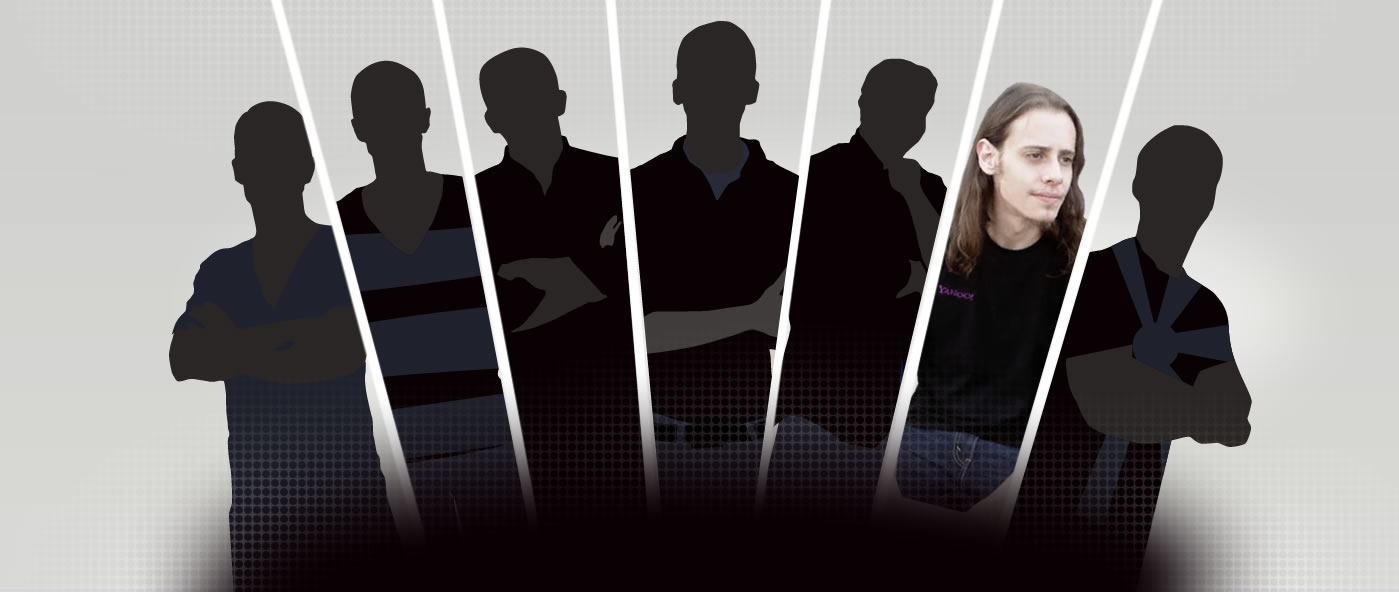
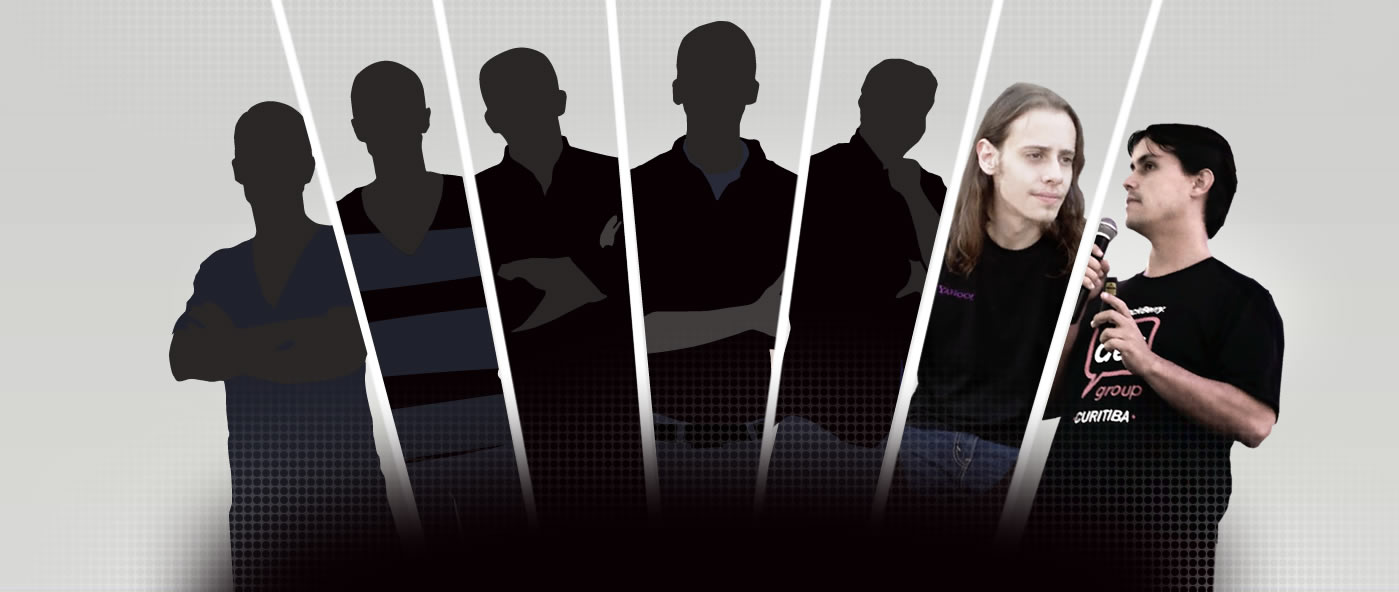
Adding Demian Borba to the website

Changed region(s): [[0.7069, 0.1824, 0.9221, 1.0], [0.6147, 0.7905, 0.6455, 0.8209]]

diff --git a/index.html b/index.html
@@ -127,15 +127,17 @@
                                 </a>
 							</li>
 							<li>
-								<div class="hero LV">
-									<div class="info">
-										<strong class="hero-name">???</strong>
-										<em class="hero-company">???</em>										
-									</div>
-								</div>
+                                <a class="hero demian-borba" href="http://braziljs.com.br/speakers/demian" title="Saiba mais sobre o palestrante Demian Borba" data-layer='3'>
+                                    <span class="spikes">&nbsp;</span>
+                                    <div class="info">
+                                        <strong class="hero-name" itemprop="performer">Demian Borba</strong>
+                                        <em class="hero-company">BlackBerry</em>                                     
+                                    </div>
+                                    <span class="photo">&nbsp;</span>
+                                </a>
 							</li>
 							<li>
-								<a class="hero thibault-imbert" href="http://braziljs.com.br/speakers/thibault" title="Saiba mais sobre o palestrante Thibault Imbert" data-layer='3'>
+								<a class="hero thibault-imbert" href="http://braziljs.com.br/speakers/thibault" title="Saiba mais sobre o palestrante Thibault Imbert" data-layer='4'>
 									<span class="spikes">&nbsp;</span>
 									<div class="info">
 										<strong class="hero-name" itemprop="performer">Thibault Imbert</strong>
@@ -145,7 +147,7 @@
 								</a>
 							</li>
 							<li>
-								<a class="hero robert-nyman" href="http://braziljs.com.br/speakers/robert" title="Saiba mais sobre o palestrante Robert Nyman" data-layer='4'>
+								<a class="hero robert-nyman" href="http://braziljs.com.br/speakers/robert" title="Saiba mais sobre o palestrante Robert Nyman" data-layer='5'>
 									<span class="spikes">&nbsp;</span>
 									<div class="info">
 										<strong class="hero-name" itemprop="performer">Robert Nyman</strong>
@@ -163,7 +165,7 @@
 								</div>
 							</li>
 							<li>
-								<a class="hero marcel-angus" href="http://braziljs.com.br/speakers/angus-marcel" title="Saiba mais sobre os palestrantes Marcel Duran e Angus Croll" data-layer='5'>
+								<a class="hero marcel-angus" href="http://braziljs.com.br/speakers/angus-marcel" title="Saiba mais sobre os palestrantes Marcel Duran e Angus Croll" data-layer='6'>
 									<span class="spikes">&nbsp;</span>
 									<div class="info">
 										<strong class="hero-name" itemprop="performers">angus croll &amp;&amp; marcel duran</strong>
@@ -189,7 +191,7 @@
 								</div>
 							</li>
 							<li>
-								<a class="hero stoyan-stefanov" href="http://braziljs.com.br/speakers/stoyan" title="Saiba mais sobre o palestrante Stoyan Stefanov" data-layer='6'>
+								<a class="hero stoyan-stefanov" href="http://braziljs.com.br/speakers/stoyan" title="Saiba mais sobre o palestrante Stoyan Stefanov" data-layer='7'>
 									<span class="spikes">&nbsp;</span>
 									<div class="info">
 										<strong class="hero-name" itemprop="performer">Stoyan Stefanov</strong>
@@ -199,7 +201,7 @@
 								</a>
 							</li>
 							<li>
-								<a class="hero caridy-patino" href="http://braziljs.com.br/speakers/caridy" title="Saiba mais sobre o palestrante Caridy Patino" data-layer='7'>
+								<a class="hero caridy-patino" href="http://braziljs.com.br/speakers/caridy" title="Saiba mais sobre o palestrante Caridy Patino" data-layer='8'>
 									<span class="spikes">&nbsp;</span>
 									<div class="info">
 										<strong class="hero-name" itemprop="performer">Caridy Patino</strong>
@@ -225,7 +227,7 @@
 								</div>
 							</li>
 							<li>
-								<a class="hero renato-mangini" href="http://braziljs.com.br/speakers/renato" title="Saiba mais sobre o palestrante Renato Mangini" data-layer='8'>
+								<a class="hero renato-mangini" href="http://braziljs.com.br/speakers/renato" title="Saiba mais sobre o palestrante Renato Mangini" data-layer='9'>
 									<span class="spikes">&nbsp;</span>
 									<div class="info">
 										<strong class="hero-name" itemprop="performer">Renato Mangini</strong>
@@ -298,7 +300,39 @@
                                         </li>
                                     </ul>
                                 </div>
-                            </li>							
+                            </li>
+                            <li id="demian" itemscope itemtype="http://schema.org/Person">
+                                <div class="portrait">
+                                    <span class="photo">&nbsp;</span>
+                                    <ul class="share">
+                                        <li><div class="fb-like" data-href="http://braziljs.com.br/speakers/demian.html" data-send="false" data-layout="box_count" data-width="72" data-show-faces="false"></div></li>
+                                        <li><a href="https://twitter.com/share" class="twitter-share-button" data-url="http://braziljs.com.br/speakers/demian.html" data-via="braziljs" data-lang="en" data-count="vertical">Tweet</a></li>
+                                        <li><div class="g-plusone" data-size="tall" data-href="http://braziljs.com.br/speakers/demian.html"></div></li>
+                                    </ul>
+                                </div>
+                                <div class="speaker">
+                                    <div class="info">
+                                        <h3 class="name" itemprop="name">Demian Borba</h3>
+                                        <em class="company" itemprop="worksFor">BlackBerry</em>
+                                        <div class="information" itemprop="description">
+                                            <span class="spacer">&nbsp;</span>
+                                            <p>Surfista, <span itemprop="jobtitle">professor</span>da Universidade da California San Diego (UCSD) e <span itemprop="jobtitle">Developer Evangelist</span> na BlackBerry, com foco em HTML5 e UI Design.</p>
+                                            <p>Em 2012, recebeu o prêmio "Must See BlackBerry Developer Evangelist", competição global entre todos os evangelistas da BlackBerry, e venceu uma das maiores competições para developers nos Estados Unidos, o AT&T® Mobile App Hackathon em Las Vegas</p>
+                                        </div>
+                                    </div>
+                                    <ul class="social-networks">
+                                        <li>
+                                            <a class="github ir ico-general" href="https://github.com/demianborba" title="Acesse o gitHub de Demian">linkedin</a>
+                                        </li>
+                                        <li class="twitter">
+                                            <a class="twitter ir ico-general" href="https://twitter.com/demianborba" title="Acesse o Twitter de Demian">Twitter</a>
+                                        </li>                                        
+                                        <li class="blog">
+                                            <a class="blog ir ico-general" itemprop="url" href="http://dborba.com/" title="Acesse o blog de Demian Borba">dborba.com</a>
+                                        </li>
+                                    </ul>
+                                </div>
+                            </li>                            							
 							<li id="thibault" itemscope itemtype="http://schema.org/Person">
 								<div class="portrait">
 									<span class="photo">&nbsp;</span>

diff --git a/speakers/demian.html b/speakers/demian.html
@@ -1,0 +1,120 @@
+<!DOCTYPE html>
+<!--[if lt ie 7]>      <html class="lt-ie9 lt-ie8 lt-ie7" lang="pt-BR"> <![endif]-->
+<!--[if ie 7]>         <html class="lt-ie9 lt-ie8" lang="pt-BR"> <![endif]-->
+<!--[if ie 8]>         <html class="lt-ie9" lang="pt-BR"> <![endif]-->
+<!--[if gt ie 8]><!--> <html lang="pt-BR" itemscope itemtype="http://schema.org/Person"> <!--<![endif]-->
+    <head>
+        <meta charset="utf-8" />
+        <meta http-equiv="X-UA-Compatible" content="IE=edge,chrome=1" />
+        <title>Demian Borba - BrazilJS 2013</title>
+        <meta name="description" content="BrazilJS Conf 2013 - Demian Borba" />
+        <meta name="author" content="marimbondo.me - Web com gominho :)" />
+        <link rel="apple-touch-icon" href="apple-touch-icon.png" />
+        <link rel="icon" href="../facebook.png" type="image/x-icon">        
+	    <meta name="viewport" content="width=device-width, initial-scale=1.0"/>
+	    <link rel="dns-prefetch" href="//apis.google.com/">
+	    <link rel="dns-prefetch" href="//www.google-analytics.com">
+	    <link rel="dns-prefetch" href="//connect.facebook.net/">
+	    <link rel="dns-prefetch" href="//cdn.api.twitter.com">        
+        
+        <link rel="stylesheet" href="../css/normalize.css" />
+        <link rel="stylesheet" href="../css/main.css" />
+        <link rel="stylesheet" href="css/context.css" />
+        <link type="text/plain" rel="author" href="humans.txt" />
+        <link rel="canonical" href="http://braziljs.com.br/speakers/demian.html" />
+
+        <!--[if lt IE 9]>
+                <script src="//html5shim.googlecode.com/svn/trunk/html5.js"></script>
+        <![endif]-->
+
+        <!-- OPEN GRAPH -->
+        <meta property="og:url" content="http://braziljs.com.br/speakers/demian.html" />
+        <meta property="og:type" content="Website" /> 
+        <meta property="og:title" content="Demian Borba - BrazilJS 2013" /> 
+        <meta property="og:image" content="http://braziljs.com.br/facebook.png" /> 
+        <meta property="og:description" content="Eu vou assistir a palestra de Demian Borba na BrazilJS Conf - 2013!" />
+		<meta property="fb:admins" content="1114477480" /> 
+		<meta property="fb:app_id" content="136223956547034" /> 
+		<meta property="og:site_name" content="BrazilJS Conference" />
+
+    </head>
+    <body class="demian">
+    	<div class="wrapper">    		
+			<div id="speakers">
+				<div class="speakers-wrapper">
+					<span class="burst">&nbsp;</span>
+					<span class="speaker ir">Olá meu nome é Demian Borba</span>
+					<div class="ballons">
+						<span class="calling what">vem ver minha palestra...</span>
+						<span class="calling where">... na <b>brazilJs conf!!</b></span>
+					</div>
+					<strong class="logo ir">BrazilJS Conf</strong>
+				</div>
+				<span class="cities">&nbsp;</span>
+			</div>
+			<div class="speaker-info">
+				<div class="info-container">
+					<h1 class="name" itemprop="name">Demian Borba</h1>
+					<strong class="company" itemprop="worksFor">BlackBerry</strong>					
+				</div>
+				<div id="social-networks">
+					<strong class="like-it ir ico-general">Curtiu? Compartilha!</strong>
+					<ul>
+						<li><div class="fb-like" data-href="http://braziljs.com.br/speakers/demian.html" data-send="false" data-layout="box_count" data-width="72" data-show-faces="false"></div></li>
+						<li><a href="https://twitter.com/share" class="twitter-share-button" data-url="http://braziljs.com.br/demian" data-via="braziljs" data-lang="en" data-count="vertical">Tweet</a></li>
+						<li><div class="g-plusone" data-size="tall"></div></li>
+					</ul>
+				</div>
+				<div class="description" itemprop="description">
+					<p>Surfista, <span itemprop="jobtitle">professor</span>da Universidade da California San Diego (UCSD) e <span itemprop="jobtitle">Developer Evangelist</span> na BlackBerry, com foco em HTML5 e UI Design.</p>
+					<p>Demian viaja o mundo conversando com developers sobre desenvolvimento, design, inovação e mercado. Antes de entrar para a BlackBerry, Demian comandou a agência interativa Action Creations na California, com clientes com Nike, 20th Century Fox, Oakley etc.</p> 
+					<p>Em 2012, recebeu o prêmio "Must See BlackBerry Developer Evangelist", competição global entre todos os evangelistas da BlackBerry, e venceu uma das maiores competições para developers nos Estados Unidos, o AT&T® Mobile App Hackathon em Las Vegas</p>
+				</div>
+				<h2 class="find-me">Nas redes sociais:</h2>
+				<ul class="my-social-links">
+					<li>
+						<a class="github" href="https://github.com/demianborba" title="Acesse o gitHub de Demian Borba">github</a>
+					</li>
+					<li>
+						<a class="twitter" href="https://twitter.com/demianborba" title="Acesse o Twitter de Demian">Twitter</a>
+					</li>
+					<li>
+						<a class="blog" href="http://dborba.com/" title="Acesse o blog de Demian Borba" itemprop="url">dborba.com</a>
+					</li>															
+				</ul>
+				<a href="//www.braziljs.com.br" title="Home" class="home-container">
+					<strong class="home ir">volte para a home</strong>
+					<span class="inner-shadow">&nbsp;</span>	
+				</a>
+			</div>
+			<footer class="footer-container">
+				<span class="cities">&nbsp;</span>
+				<span class="gradient">&nbsp;</span>
+				<div class="debug">
+					<span class="coins">&nbsp;</span>
+				</div>
+			</footer>
+	    </div>        
+		<script>(function(d, s, id) {
+		  var js, fjs = d.getElementsByTagName(s)[0];
+		  if (d.getElementById(id)) return;
+		  js = d.createElement(s); js.id = id;
+		  js.src = "//connect.facebook.net/pt_BR/all.js#xfbml=1&appId=136223956547034";
+		  fjs.parentNode.insertBefore(js, fjs);
+		}(document, 'script', 'facebook-jssdk'));</script>
+		<script>!function(d,s,id){var js,fjs=d.getElementsByTagName(s)[0];if(!d.getElementById(id)){js=d.createElement(s);js.id=id;js.src="https://platform.twitter.com/widgets.js";fjs.parentNode.insertBefore(js,fjs);}}(document,"script","twitter-wjs");</script>
+		<script type="text/javascript">
+		  (function() {
+		    var po = document.createElement('script'); po.type = 'text/javascript'; po.async = true;
+		    po.src = 'https://apis.google.com/js/plusone.js';
+		    var s = document.getElementsByTagName('script')[0]; s.parentNode.insertBefore(po, s);
+		  })();
+		</script>
+        <script>
+            var _gaq=[['_setAccount','UA-32119524-1'],['_trackPageview']];
+            (function(d,t){var g=d.createElement(t),s=d.getElementsByTagName(t)[0];
+            g.src=('https:'==location.protocol?'//ssl':'//www')+'.google-analytics.com/ga.js';
+            s.parentNode.insertBefore(g,s)}(document,'script'));
+        </script>
+    </body>
+</html>

diff --git a/css/main.css b/css/main.css
@@ -204,7 +204,9 @@ main .where { float:left; width:432px; font-size:28px; font-weight:bold; letter-
 #heroes .heroes-list .alexandre-gaigalas .spikes { height:533px; width:300px; background:url('../img/wide-spikes.png') no-repeat; }
 #heroes .heroes-list .alexandre-gaigalas .photo { top:3px; left:61px; width:239px; height:530px; background:url('../img/hero-alexandre.png') no-repeat; }
 #heroes .heroes-list .AB .specialguest.photo { right:0; bottom:0; width:300px; height:533px; background:url('../img/hero-betao.png') no-repeat; }
-#heroes .heroes-list .LV { margin:-316px 20px 0 0; width:300px; height:317px; background:url('../img/hero-lv.jpg') no-repeat; }
+#heroes .heroes-list .demian-borba { margin:-316px 20px 0 0; width:300px; height:317px; }
+#heroes .heroes-list .demian-borba .spikes { height:318px; width:300px; }
+#heroes .heroes-list .demian-borba .photo { bottom:0; right:0; height:309px; width:236px; background:url('../img/hero-damian.png') no-repeat; }
 #heroes .heroes-list .thibault-imbert { margin-top:-316px; width:300px; height:317px; }
 #heroes .heroes-list .thibault-imbert .spikes { width:300px; background:url('../img/spikes-thibault.png') no-repeat; }
 #heroes .heroes-list .thibault-imbert .hero-name { font-size:30px; }
@@ -281,6 +283,8 @@ main .where { float:left; width:432px; font-size:28px; font-weight:bold; letter-
 #heroes-overlay #angus-marcel .photo { left:-61px; top:100px; width:432px; height:321px; background:url('../img/overlay-angus-marcel.png') no-repeat; }
 #heroes-overlay #angus-marcel .photo:before { left:1px; }
 #heroes-overlay #caridy .photo:before { left:-67px; }
+#heroes-overlay #demian .photo { left:-12px; top:30px; width:272px; height:422px; background:url('../img/overlay-demian.png') no-repeat; }
+#heroes-overlay #demian .photo:before { left:-48px; }
 
 /* SCHEDULE */
 #schedule { display:inline-block; clear:both; margin-top:60px; width:100%; }
@@ -462,7 +466,7 @@ main .where { float:left; width:432px; font-size:28px; font-weight:bold; letter-
 	#heroes .heroes-list .hero-company { font-size:14px !important; color:rgb(121,121,121); text-shadow:none; font-weight:normal; font-style:italic; }
 	#heroes .heroes-list .douglas-crockford .photo { top:-4px; width:106px; height:156px; background:url('../img/mobile/douglas-small.png') no-repeat; }
 	#heroes .heroes-list .alexandre-gaigalas .photo { top:1px; left:11px; height:152px; width:134px; background:url('../img/mobile/alexandre-small.png') no-repeat; }
-	#heroes .heroes-list .LV { background:url('../img/mobile/lv-small.png') no-repeat; }
+	#heroes .heroes-list .demian-borba .photo { right:0; top:1px; height:151px; width:122px; background:url('../img/mobile/demian-small.png') no-repeat; }
 	#heroes .heroes-list .JG { background:url('../img/mobile/jg-small.png') no-repeat; }
 	#heroes .heroes-list .PI { background:url('../img/mobile/pi-small.png') no-repeat; }
 	#heroes .heroes-list .JW { background:url('../img/mobile/jw-small.png') no-repeat; }
@@ -513,7 +517,8 @@ main .where { float:left; width:432px; font-size:28px; font-weight:bold; letter-
 	#heroes-overlay #caridy .photo { left:0; width:199px; height:317px; background:url('../img/mobile/hero-caridy.png') no-repeat; }
 	#heroes-overlay #angus-marcel .photo { left:0; width:286px; height:211px; background:url('../img/mobile/hero-angus-marcel.png') no-repeat; }	
 	#heroes-overlay #renato .photo { top:21px; left:0; width:199px; height:317px; background:url('../img/mobile/hero-renato.png') no-repeat; }
-	#heroes-overlay #alexandre .photo { top:36px; left:0; width:230px; height:296px; background:url('../img/mobile/hero-alexandre.png') no-repeat; }	
+	#heroes-overlay #alexandre .photo { top:36px; left:0; width:230px; height:296px; background:url('../img/mobile/hero-alexandre.png') no-repeat; }
+	#heroes-overlay #demian .photo { top:36px; left:0; width:230px; height:296px; background:url('../img/mobile/hero-demian.png') no-repeat; }	
 	#heroes-overlay .close { right:5px; top:281px; height:32px; width:73px; background-position:0 -270px; z-index:10; }
 	#heroes-overlay #angus-marcel .speaker .name { width:360px; }	
 	
@@ -640,7 +645,9 @@ main .where { float:left; width:432px; font-size:28px; font-weight:bold; letter-
 	#heroes .heroes-list .alexandre-gaigalas { margin-top:138px; width:229px; height:410px; }
 	#heroes .heroes-list .alexandre-gaigalas .spikes { width:230px; height:410px; background:url('../img/tablet/wide-spikes.png') no-repeat; }
 	#heroes .heroes-list .alexandre-gaigalas .photo { left:45px; top:0; width:185px; height:410px; background:url('../img/tablet/hero-alexandre.png') no-repeat; }
-	#heroes .heroes-list .LV { margin-top:-240px; width:229px; height:241px; background:url('../img/tablet/hero-LV.jpg') no-repeat; }
+	#heroes .heroes-list .demian-borba { margin-top:-240px; width:229px; height:241px;  }
+	#heroes .heroes-list .demian-borba .spikes { height:257px; width:229px; background:url('../img/tablet/special-spikes.png') no-repeat; }
+	#heroes .heroes-list .demian-borba .photo { width:190px; height:239px; background:url('../img/tablet/hero-demian.png') no-repeat; }
 	#heroes .heroes-list .thibault-imbert { margin-top:-241px; width:229px; height:241px; }
 	#heroes .heroes-list .thibault-imbert .hero-name { font-size:22px; }
 	#heroes .heroes-list .thibault-imbert .photo { left:0; width:187px; height:239px; background:url('../img/tablet/hero-thibault.png') no-repeat; }

diff --git a/speakers/css/context.css b/speakers/css/context.css
@@ -11,6 +11,7 @@
 .caridy #speakers .speakers-wrapper .speaker { left:-20px; top:-5px; background:url('../img/caridy.png') no-repeat; }
 .renato #speakers .speakers-wrapper .speaker { left:-20px; top:-5px; background:url('../img/renato.png') no-repeat; }
 .alexandre #speakers .speakers-wrapper .speaker { left:-20px; top:-5px; background:url('../img/alexandre.png') no-repeat; }
+.demian #speakers .speakers-wrapper .speaker { left:-20px; top:-5px; background:url('../img/demian.png') no-repeat; }
 #speakers .speakers-wrapper .ballons { position:relative; top:-24px; left:270px; width:224px; height:212px; background:url('../img/ballons.png') no-repeat; }
 #speakers .speakers-wrapper .ballons .calling { position:absolute; font-size:16px; color:#FFF; width:127px; font-family:"Comic Sans MS", 'arial'; text-transform:uppercase; text-align:center; -webkit-transform:rotate(-22deg); -moz-transform:rotate(-22deg); -o-transform:rotate(-22deg); -ms-transform:rotate(-22deg); transform:rotate(-22deg); }
 #speakers .speakers-wrapper .ballons .calling.what { left:5px; top:22px; }
@@ -62,6 +63,7 @@
 	.caridy  #speakers .speakers-wrapper .speaker { left:-2px; top:34px; background:url('../img/mobile/caridy.png') no-repeat; }
 	.renato  #speakers .speakers-wrapper .speaker { left:-7px; top:50px; width:212px; background:url('../img/mobile/renato.png') no-repeat; }
 	.alexandre  #speakers .speakers-wrapper .speaker { left:5px; top:50px; width:212px; background:url('../img/mobile/alexandre.png') no-repeat; }
+	.demian #speakers .speakers-wrapper .speaker { left:5px; top:50px; width:212px; background:url('../img/mobile/demian.png') no-repeat; }
 	#speakers .speakers-wrapper .logo { float:none; display:block; left:128px; top:-109px; width:178px; height:82px; background:url('../img/mobile/logo.png') no-repeat; }
 	#speakers .speakers-wrapper .ballons { left:197px; top:147px; height:81px; width:97px; background:url('../img/mobile/ttl-general.png') no-repeat; }
 	#speakers .speakers-wrapper .ballons .calling.what { display:none; }
